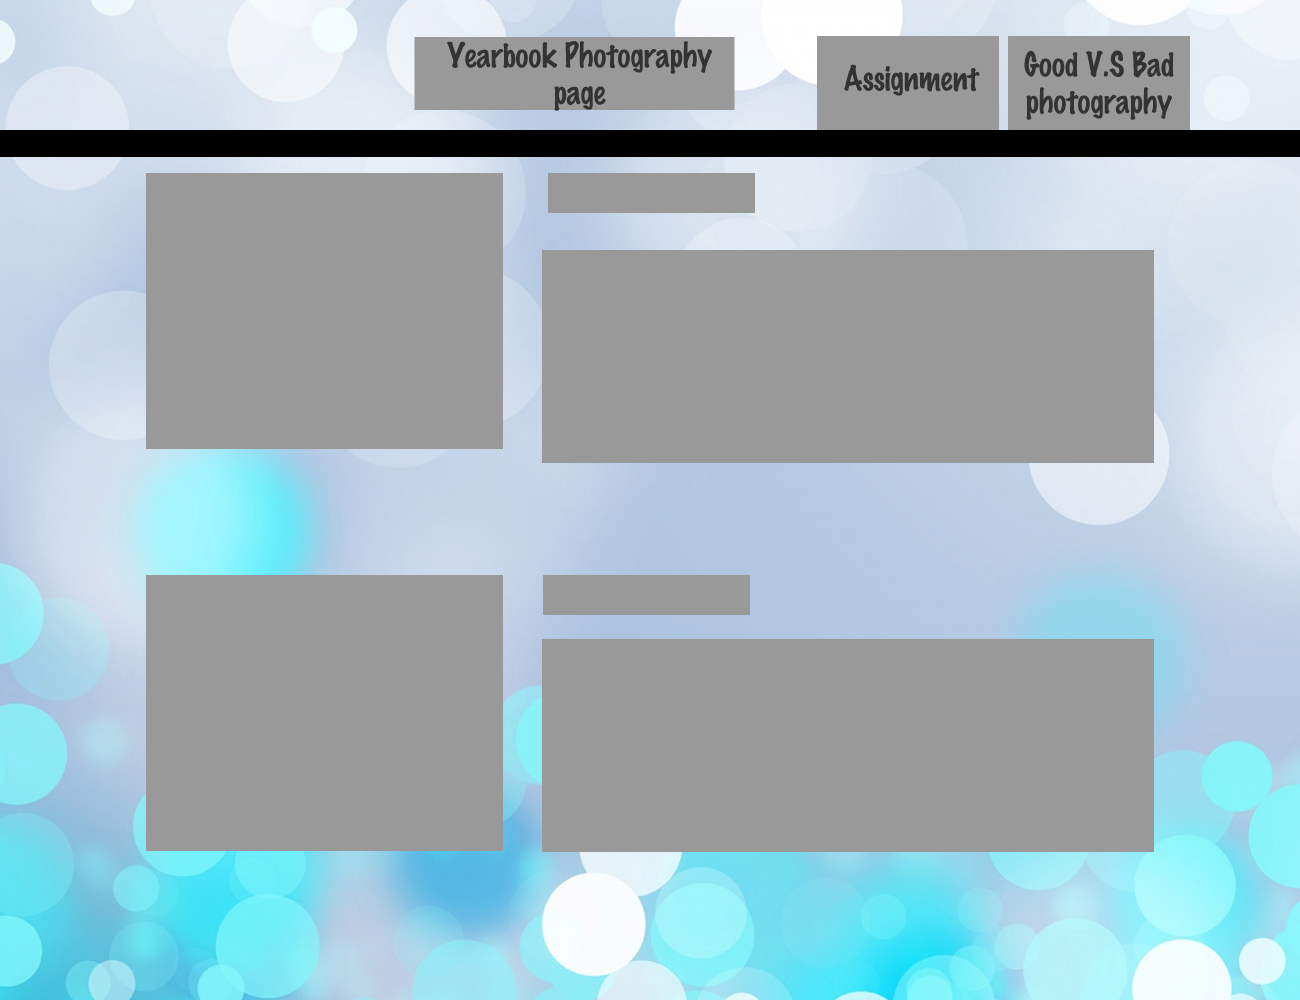
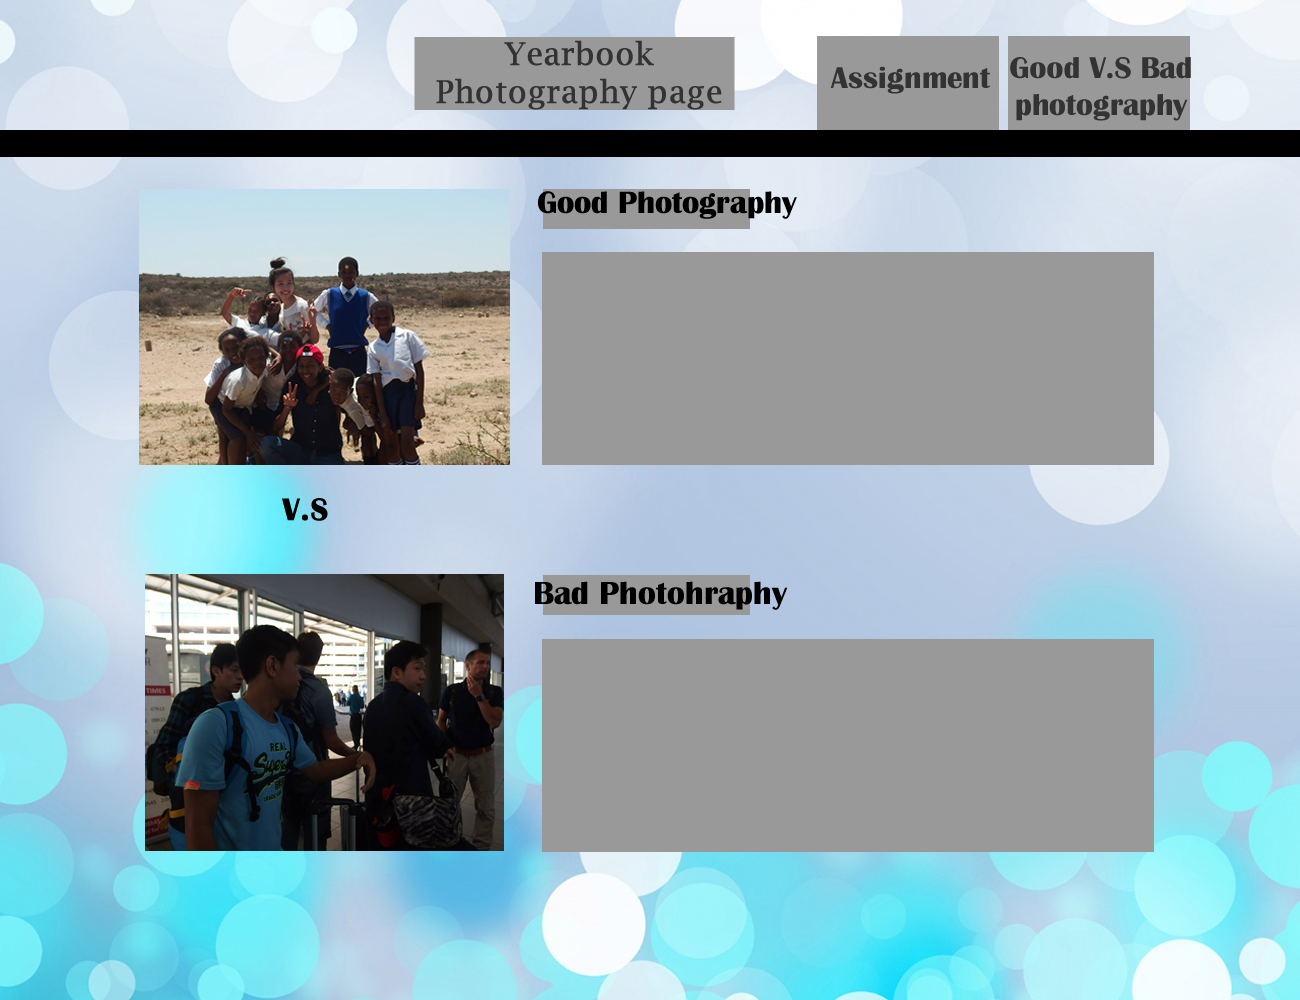
put wireframe and added feedbacks

diff --git a/index.html b/index.html
@@ -88,13 +88,24 @@
     <img src="Images/Yearbook.png"/>
     <a href="file:///Users/CTD-2/Desktop/Git%20hub%20yayay/CTD%20Planning%20site-%20Min%20Ji%20Kim/Images/YearbookPhotographyPage.pdf">The link</a>
     <h2>Wireframe</h2>
+    <h4>First page- Home Page</h4>
     <img src="Wireframe .png" style="width:500px;height:400px"/>
+    <h4>Second page</h4>
+    <img src="2ndpageforwireframe.gif" style="width:500px;height:400px; position:right"/>
+    <h2>Story Board</h2>
+    <img src="2ndpageforwireframe.png"
+
   </div>
 
   <div class="Evaluation">
     <h1>Evaluation</h1>
     <p> Everyone agrees one the idea so far</p>
-
+    <h2>Feedback on story board:</h2>
+    <ol>
+      <li>The background- a little bit distracting</li>
+      <li>Straight to the point- extremely simple :)</li>
+      <li>Change the font= not appealing to the eye</li>
+    </ol>
     <h3>What I learnt so far:</h3>
     <ol>
       <li>I learnt how to put numbers instead of bullet points through the web by searching it online:</li>
